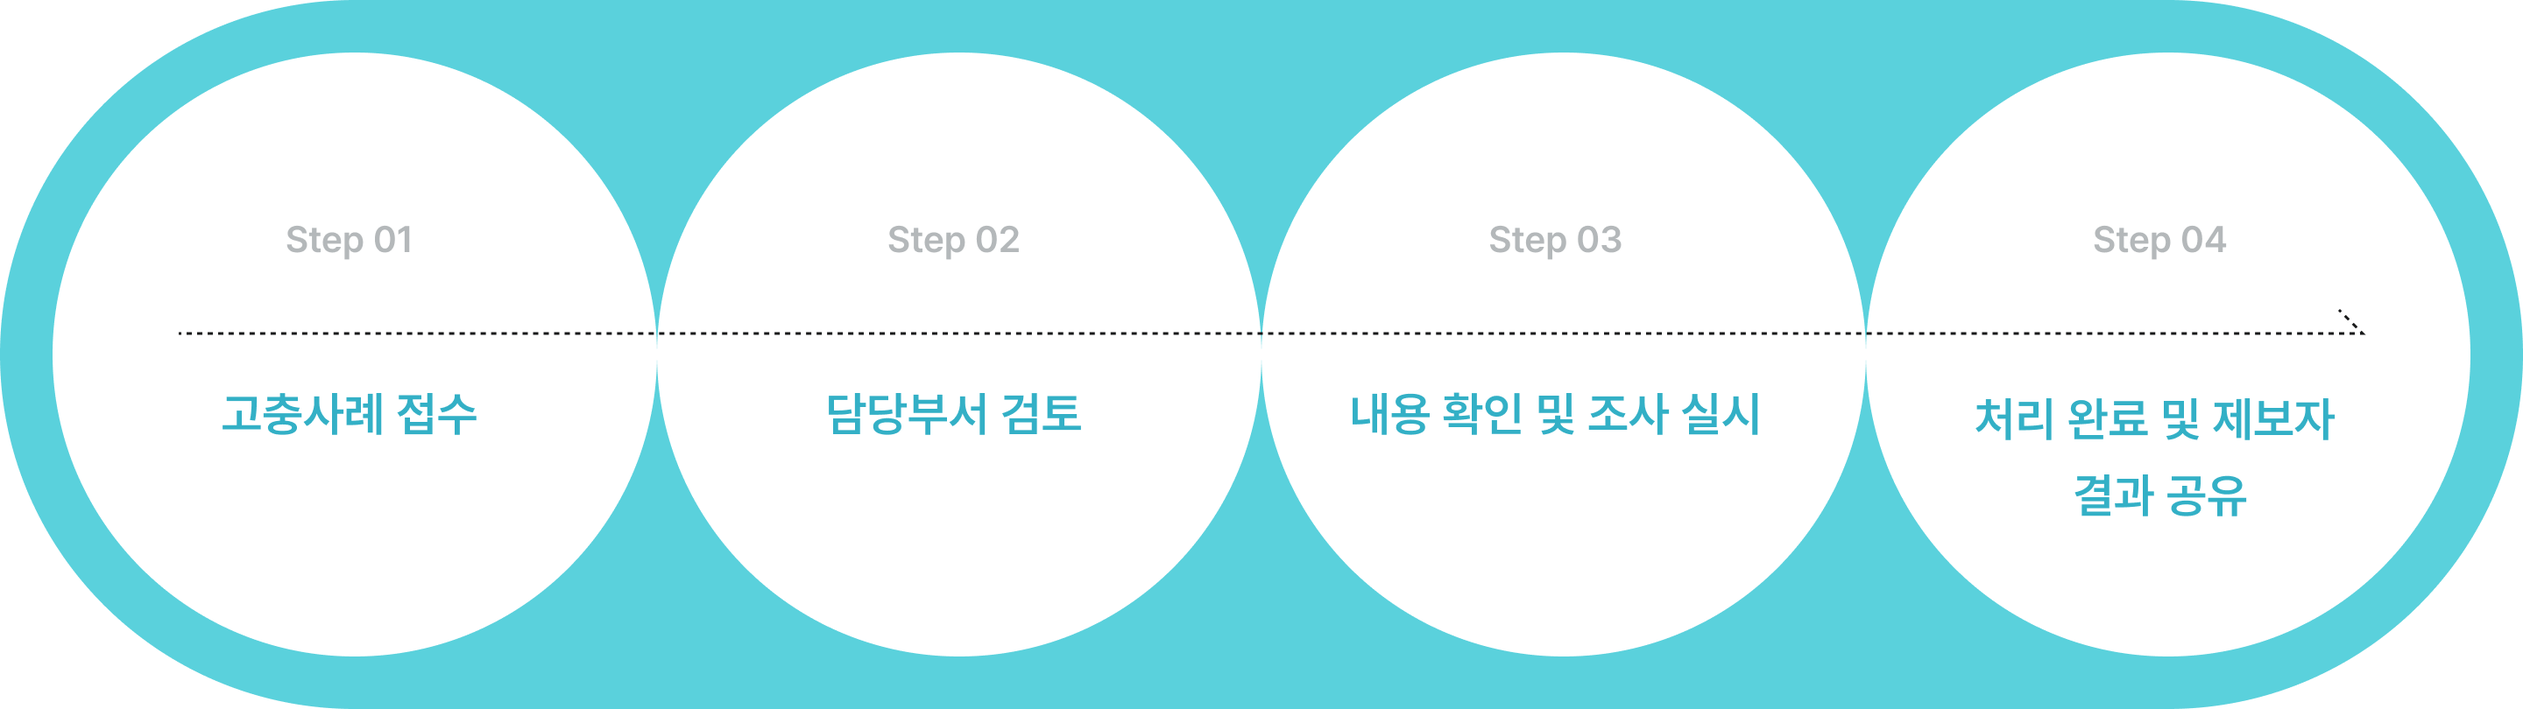
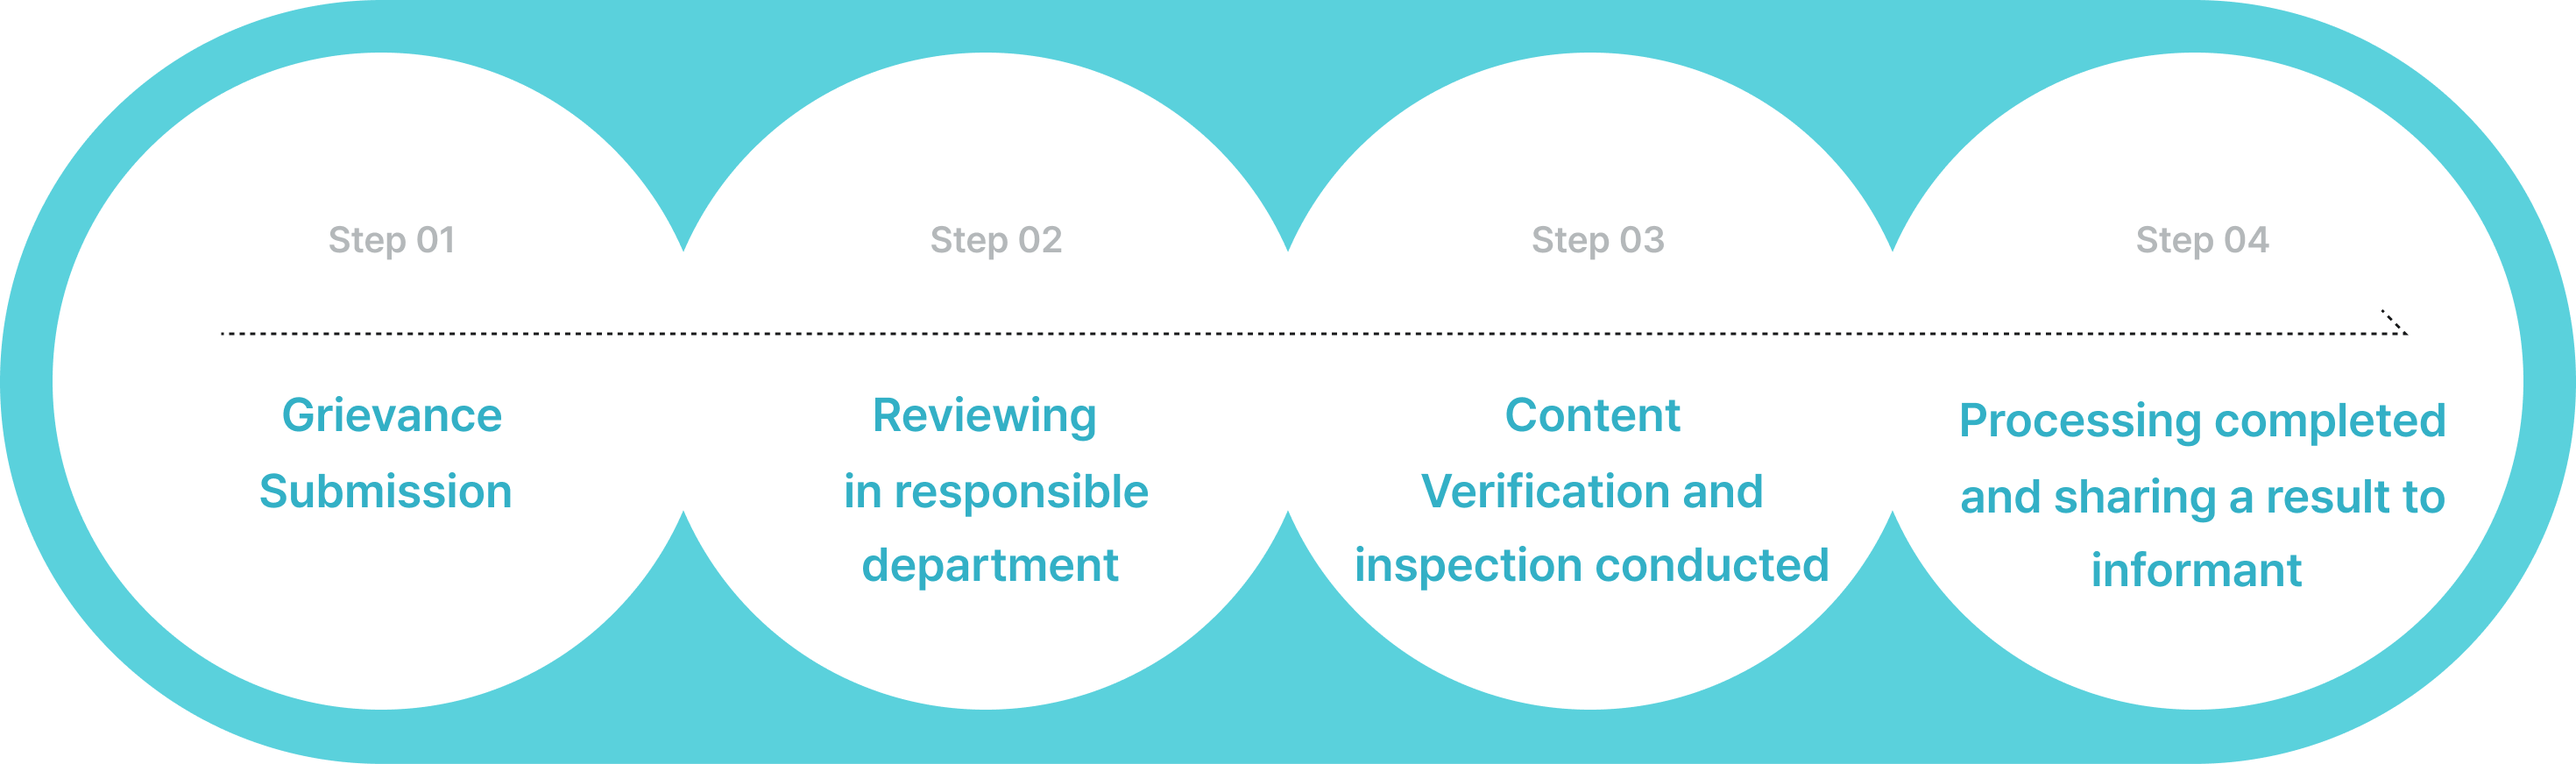
지속가능경영 > 사회 영문 이미지 업데이트

diff --git a/public/inc/css/media/pages.css b/public/inc/css/media/pages.css
@@ -379,6 +379,8 @@
 .cont-area-wrap.type2 .box-container .box-list > li .text-area .desc {margin-top: .5rem; font-size: .875rem; line-height: 1.3125rem;}
 
 .sust-soc:lang(en) #tab2-content .content-item02.bg-skyblue {padding-bottom: 3rem;}
+.sust-soc:lang(en) #tab3-content .content-item01 .btn-wrap > a {width: 100%; height: auto; font-size: 1rem; line-height: 1.4rem; padding-block: 1.25rem;}
+.sust-soc:lang(en) #tab3-content .content-item01 .btn-wrap > a .icon-area {flex-shrink: 0;}
 
 /* 주식정보 (stif) */
 .stif .cont-area-wrap .cont-area-sect > section {padding-bottom: 3.5rem;}

diff --git a/public/inc/css/Default/pages.css b/public/inc/css/Default/pages.css
@@ -613,6 +613,7 @@
 .sust-soc .infosec-activity.ty02 {margin-top: 2.5rem;}
 .sust-soc .infosec-activity.ty02  > li {background-color: var(--colorElement-light-fill-fill-on-primary); text-align: left;}
 
+.sust-soc:lang(en) #tab3-content .content-item01 .btn-wrap > a {width: 32.5rem;}
 .sust-soc:lang(en) .csr-acts > img {display: block; max-width: 52.5rem; margin-inline: auto;}
 
 /* 공시정보 (disc) */
